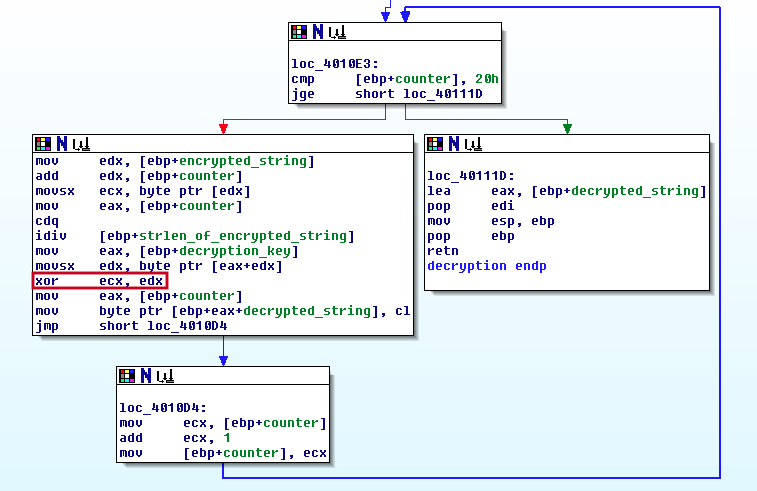
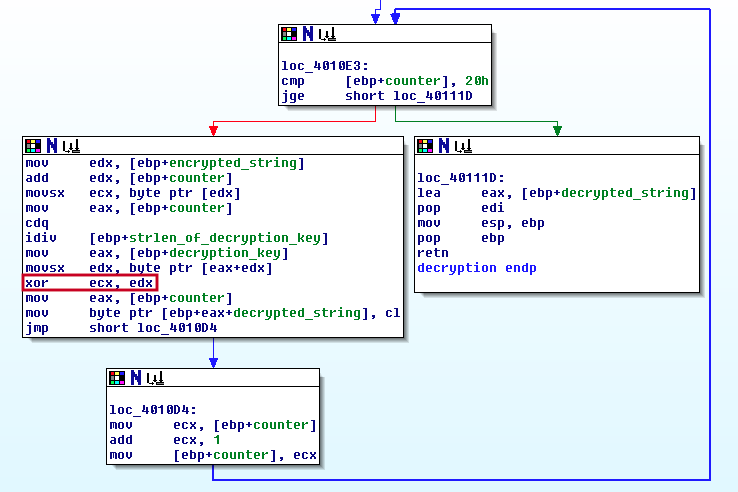
Lab09 exercises (to be completed...) and minor fixes

Changed region(s): [[0.0312, 0.0, 0.9661, 0.9776]]

diff --git a/Scripts/Others/lab_09_2_decryption_hostname.py b/Scripts/Others/lab_09_2_decryption_hostname.py
@@ -1,0 +1,12 @@
+encrypted_string = bytearray([0x46, 0x6, 0x16, 0x54, 0x42, 0x5, 0x12, 0x1B, 0x47, 0x0C, 0x7, 0x2, 0x5D, 0x1C, 0x0, 0x16, 0x45, 0x16, 0x1, 0x1D, 0x52, 0x0B, 0x5, 0x0F, 0x48, 0x2, 0x8, 0x9, 0x1C, 0x14, 0x1C, 0x15])
+decryption_key = ["1", "q", "a", "z", "2", "w", "s", "x", "3", "e", "d", "c"]
+
+decrypted_string = ""
+
+for counter in range(len(encrypted_string)):
+	encrypted_char = encrypted_string[counter]
+	reminder = counter % len(decryption_key)
+	xor_key = decryption_key[reminder]
+	decrypted_string = decrypted_string + chr(encrypted_char ^ ord(xor_key))
+
+print("The decrypted string is: " + decrypted_string)

diff --git a/Labs/Lab_09.md b/Labs/Lab_09.md
@@ -256,29 +256,58 @@ The first thing we do is taking a look at the decryption routine so as to know h
 As we can see, the decryption routine consist of a _XOR_ operation between _ECX_ and _EDX_ over a 32 length string. Now, we have to understand where this registers are populated.
 
 ```
-mov     edx, [ebp+encrypted_string]				-> EDX = array of values that make up the encrypted_string = encrypted_string [0]
-add     edx, [ebp+counter]						-> EDX = walks over the array = encrypted_string [0 + counter] 
-movsx   ecx, byte ptr [edx]						-> ECX = specific value of the array at the value of the counter = encrypted_string [counter]
-mov     eax, [ebp+counter]						-> EAX = counter
-cdq												-> EDX = 0x00000000 (extends the sign bit of EAX into the EDX register), counter max value = 0x20 = 32
-idiv    [ebp+strlen_of_encrypted_string]		-> [EAX|EBX] / strlen_of_encrypted_string -> EAX = result, EDX = reminder 
-mov     eax, [ebp+decryption_key]				-> EAX = decryption_key[0]
-movsx   edx, byte ptr [eax+edx]					-> EDX = decryption_key[0 + reminder]
-xor     ecx, edx								-> ECX ^ EDX = encrypted_string [counter] ^ decryption_key[0 + reminder]
-mov     eax, [ebp+counter]						-> EAX = counter
+mov     edx, [ebp+encrypted_string]		-> EDX = array of values that make up the encrypted_string = encrypted_string [0]
+add     edx, [ebp+counter]			-> EDX = walks over the array = encrypted_string [0 + counter] 
+movsx   ecx, byte ptr [edx]			-> ECX = specific value of the array at the value of the counter = encrypted_string [counter]
+mov     eax, [ebp+counter]			-> EAX = counter
+cdq						-> EDX = 0x00000000 (extends the sign bit of EAX into the EDX register), counter max value = 0x20 = 32
+idiv    [ebp+strlen_of_encrypted_string]	-> [EDX|EAX] / strlen_of_decryption_key -> EAX = result, EDX = reminder 
+mov     eax, [ebp+decryption_key]		-> EAX = decryption_key[0]
+movsx   edx, byte ptr [eax+edx]			-> EDX = decryption_key[0 + reminder]
+xor     ecx, edx				-> ECX ^ EDX = encrypted_string [counter] ^ decryption_key[0 + reminder]
+mov     eax, [ebp+counter]			-> EAX = counter
 mov     byte ptr [ebp+eax+decrypted_string], cl -> decrypted_string [counter] = CL (result of XOR operation)
 ```
 
 Then, we need the value of the arrays of the _encrypted_string_ and the _decryption_key_.
 
 ```
-decryption_key = [1, q, a, z, 2, w, s, x, 3, e, d, c]
 encrypted_string = [0x46, 0x6, 0x16, 0x54, 0x42, 0x5, 0x12, 0x1B, 0x47, 0x0C, 0x7, 0x2, 0x5D, 0x1C, 0x0, 0x16, 0x45, 0x16, 0x1, 0x1D, 0x52, 0x0B, 0x5, 0x0F, 0x48, 0x2, 0x8, 0x9, 0x1C, 0x14, 0x1C, 0x15]
+decryption_key = [1, q, a, z, 2, w, s, x, 3, e, d, c]
 ```
 
-Now that we understand the algorithm and know the arrays, it's time to write a python script that dec
+Now that we understand the algorithm and know the arrays, it's time to write a python script that decrypts the hostname:
+
+```
+encrypted_string = bytearray([0x46, 0x6, 0x16, 0x54, 0x42, 0x5, 0x12, 0x1B, 0x47, 0x0C, 0x7, 0x2, 0x5D, 0x1C, 0x0, 0x16, 0x45, 0x16, 0x1, 0x1D, 0x52, 0x0B, 0x5, 0x0F, 0x48, 0x2, 0x8, 0x9, 0x1C, 0x14, 0x1C, 0x15])
+decryption_key = ["1", "q", "a", "z", "2", "w", "s", "x", "3", "e", "d", "c"]
+
+decrypted_string = ""
+
+for counter in range(len(encrypted_string)):
+	encrypted_char = encrypted_string[counter]
+	reminder = counter % len(decryption_key)
+	xor_key = decryption_key[reminder]
+	decrypted_string = decrypted_string + chr(encrypted_char ^ ord(xor_key))
+
+print("The decrypted string is: " + decrypted_string)
+```
+
+Let's execute it and see what we get:
+
+```
+$ python3 Scripts/Others/lab_09_2_decryption_hostname.py 
+
+The decrypted string is: www.practicalmalwareanalysis.com
+```
+
+Great! We have obtained the hostname of the C&C, **www.practicalmalwareanalysis.com**
 
 **Dynamic analysis**
+
+The dynamic analysis will be divided in two parts, in the first one we are going to use _Immunity Debugger_ so as to perform the analysis, and in the second one we are going to use _ApateDNS_.
+
+_Immunity Debugger_
 
 
 **7. What encoding routine is being used to obfuscate the domain name?**

diff --git a/Labs/Lab_07.md b/Labs/Lab_07.md
@@ -61,7 +61,7 @@ dw 0 		-> 0000
 dw 0 		-> 0000
 db 0C0h		-> C0
 db 6 dup(0)	-> 00 00 00 00 00 00
-db 46h			-> 46
+db 46h		-> 46
 
     ||
     \/
@@ -79,16 +79,16 @@ riid            dd 0D30C1661h
     \/
 
 dd 0D30C1661h	-> D30C1661
-dw 0CDAFh		-> CDAF
-dw 11D0h		-> 11D0
-db 8Ah			-> 8A
-db 3Eh			-> 3E
-db 0			-> 00
-db 0C0h			-> C0
-db 4Fh			-> 4F
-db 0C9h			-> C9
-db 0E2h			-> E2
-db 6Eh			-> 6E
+dw 0CDAFh	-> CDAF
+dw 11D0h	-> 11D0
+db 8Ah		-> 8A
+db 3Eh		-> 3E
+db 0		-> 00
+db 0C0h		-> C0
+db 4Fh		-> 4F
+db 0C9h		-> C9
+db 0E2h		-> E2
+db 6Eh		-> 6E
 
     ||
     \/
